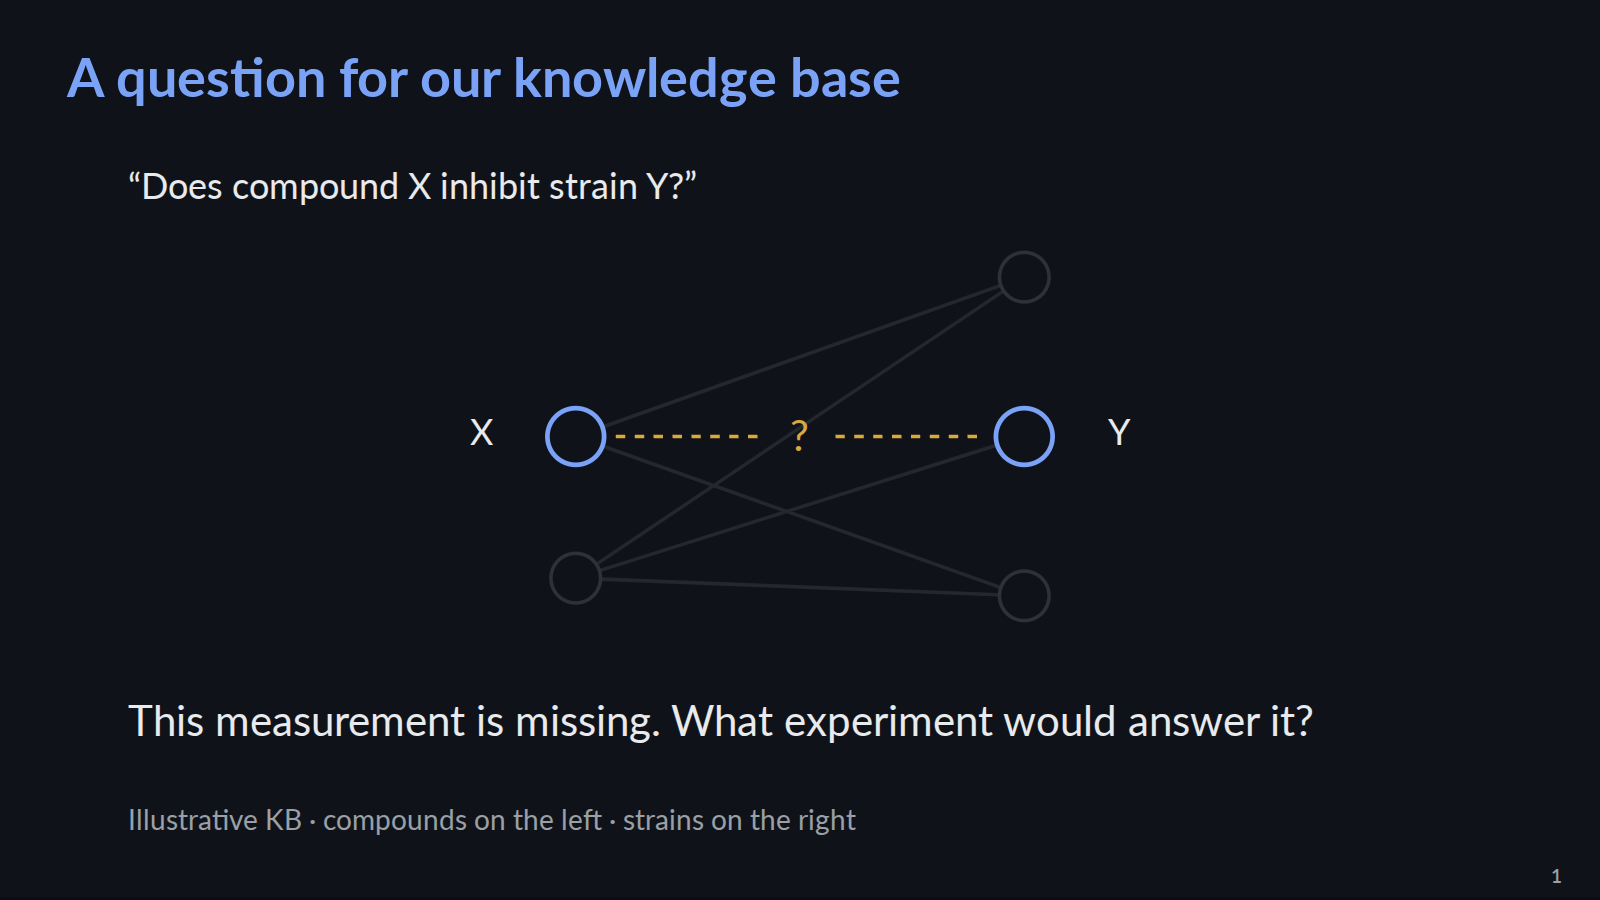
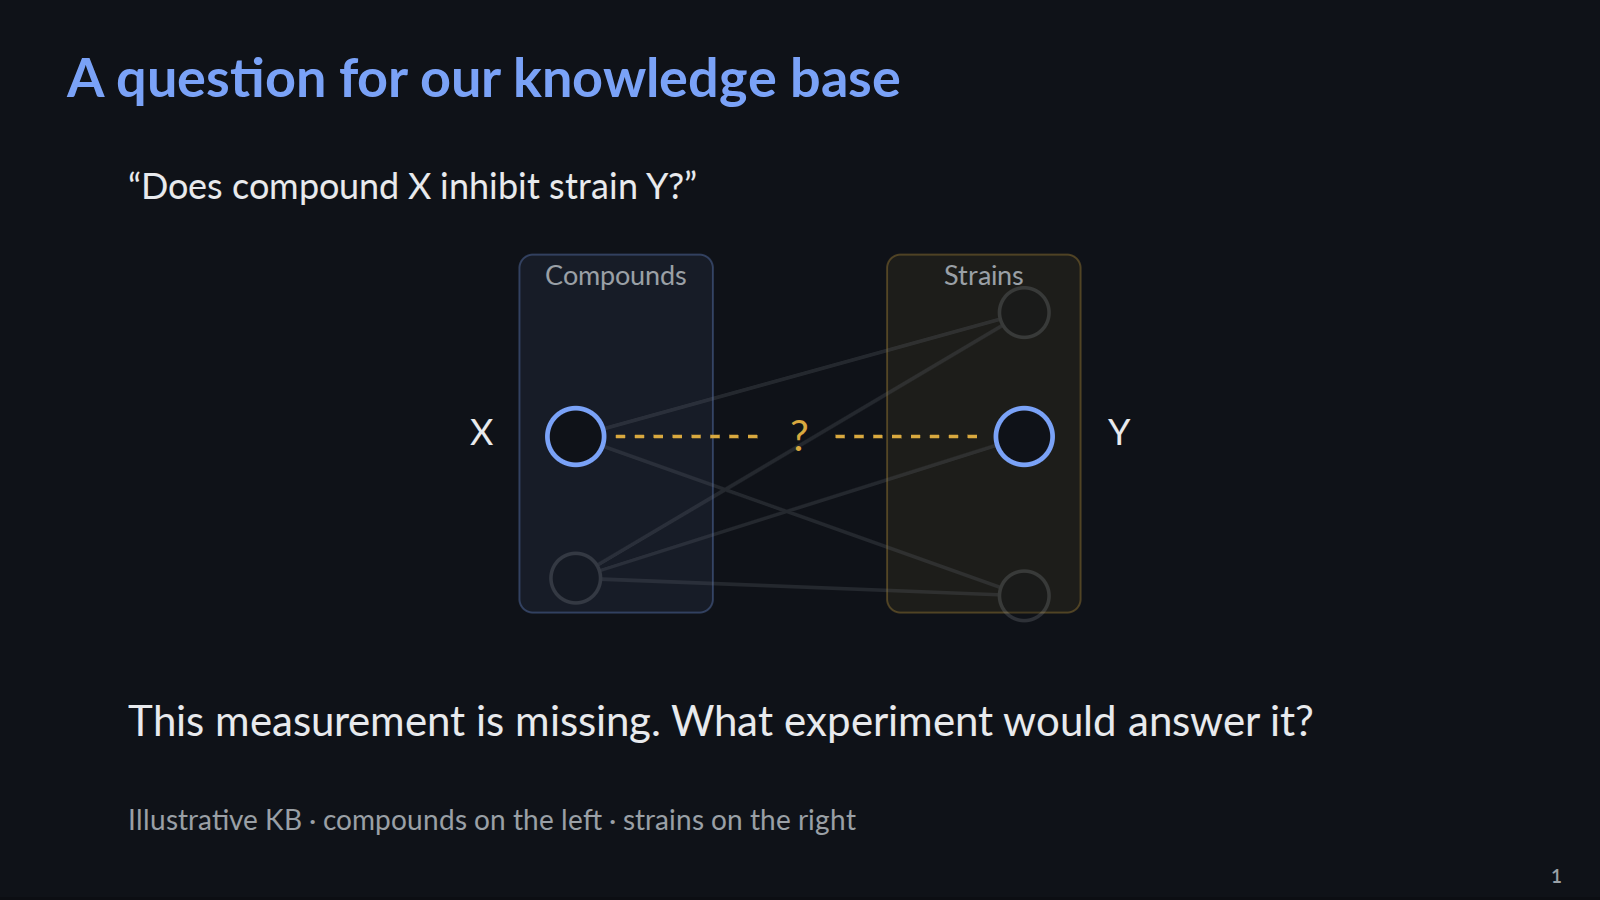
WIP: group compound and strain nodes in translucent labeled boxes

diff --git a/slides/talks/question-prototype/story.js b/slides/talks/question-prototype/story.js
@@ -2,8 +2,8 @@
 // TODO(final): conceptual illustration, not an actual graph export or recorded query.
 {
 Deck.slide('missing-link',{steps:5,notes:'Abstract bipartite knowledge base: two compound nodes on the left and three strain nodes on the right. All existing edges cross the partitions. Start unlabeled; reveal the researcher question; identify X and Y; zoom and dim surrounding knowledge; highlight the missing X–Y measurement. The demonstration assumes an up-to-date KB and researcher-supplied identities. This is not an actual query trace.',mount(frame,{css}){
-css(`.ml-question{position:absolute;left:8%;top:18%;font-size:var(--t-body);color:var(--fg);opacity:0;transition:opacity .35s}.ml-view{position:absolute;left:10%;top:27%;width:80%;height:43%;overflow:hidden}.ml-view svg{width:100%;height:100%}.ml-world{transform-origin:500px 200px;transition:transform .8s ease-in-out}.ml-zoom .ml-world{transform:scale(1.22)}.ml-context{transition:opacity .6s}.ml-zoom .ml-context{opacity:.22}.ml-edge{stroke:var(--detail);stroke-width:3;fill:none}.ml-dot{fill:var(--bg);stroke:var(--accent);stroke-width:3}.ml-context .ml-dot{transition:stroke .6s}.ml-zoom .ml-context .ml-dot{stroke:var(--muted)}.ml-focus{stroke-width:4}.ml-labels{opacity:0;transition:opacity .35s}.ml-label{fill:var(--fg);font-size:var(--t-small);font-family:Lato,sans-serif;text-anchor:middle;paint-order:stroke;stroke:var(--bg);stroke-width:8px;stroke-linejoin:round}.ml-gap{stroke:var(--plot-2);stroke-width:3;stroke-dasharray:8 8;fill:none}.ml-missing{opacity:0;transition:opacity .5s}.ml-has-question .ml-question,.ml-has-labels .ml-labels,.ml-reveal .ml-missing{opacity:1}.ml-mark{fill:var(--plot-2);font-size:var(--t-body);font-family:Lato,sans-serif;text-anchor:middle}.ml-answer{position:absolute;left:8%;top:77%;font-size:var(--t-lead);opacity:0;transition:opacity .5s}.ml-reveal .ml-answer{opacity:1}.ml-key{position:absolute;left:8%;top:89%;font-size:var(--t-caption);color:var(--muted)}.ml-jump .ml-world,.ml-jump .ml-context,.ml-jump .ml-dot,.ml-jump .ml-question,.ml-jump .ml-labels,.ml-jump .ml-missing,.ml-jump .ml-answer{transition:none}`);
-frame.innerHTML=`<h2 class="deck-heading">A question for our knowledge base</h2><div class="ml-question">“Does compound X inhibit strain Y?”</div><div class="ml-view"><svg viewBox="0 0 1000 400" preserveAspectRatio="xMidYMid meet" aria-label="Bipartite knowledge graph: two compounds on the left, three strains on the right."><g class="ml-world"><g class="ml-context"><path class="ml-edge" d="M310 200 L690 65 M310 200 L690 335 M310 320 L690 65 M310 320 L690 200 M310 320 L690 335"/><circle class="ml-dot" cx="310" cy="320" r="21"/><circle class="ml-dot" cx="690" cy="65" r="21"/><circle class="ml-dot" cx="690" cy="335" r="21"/></g><g class="ml-dot ml-focus"><circle cx="310" cy="200" r="24"/><circle cx="690" cy="200" r="24"/></g><g class="ml-labels"><text class="ml-label" x="230" y="207">X</text><text class="ml-label" x="770" y="207">Y</text></g><g class="ml-missing"><path class="ml-gap" d="M344 200 L470 200 M530 200 L656 200"/><text class="ml-mark" x="500" y="212">?</text></g></g></svg></div><div class="ml-answer">This measurement is missing. What experiment would answer it?</div><div class="ml-key">Illustrative KB · compounds on the left · strains on the right</div>`;
+css(`.ml-question{position:absolute;left:8%;top:18%;font-size:var(--t-body);color:var(--fg);opacity:0;transition:opacity .35s}.ml-view{position:absolute;left:10%;top:27%;width:80%;height:43%;overflow:hidden}.ml-view svg{width:100%;height:100%}.ml-world{transform-origin:500px 200px;transition:transform .8s ease-in-out}.ml-zoom .ml-world{transform:scale(1.22)}.ml-context{transition:opacity .6s}.ml-zoom .ml-context{opacity:.22}.ml-group{fill:var(--accent);fill-opacity:.07;stroke:var(--accent);stroke-opacity:.3;stroke-width:2}.ml-strains{fill:var(--plot-2);stroke:var(--plot-2)}.ml-group-label{fill:var(--muted);font-size:var(--t-caption);font-family:Lato,sans-serif;text-anchor:middle}.ml-edge{stroke:var(--detail);stroke-width:3;fill:none}.ml-dot{fill:var(--bg);stroke:var(--accent);stroke-width:3}.ml-context .ml-dot{transition:stroke .6s}.ml-zoom .ml-context .ml-dot{stroke:var(--muted)}.ml-focus{stroke-width:4}.ml-labels{opacity:0;transition:opacity .35s}.ml-label{fill:var(--fg);font-size:var(--t-small);font-family:Lato,sans-serif;text-anchor:middle;paint-order:stroke;stroke:var(--bg);stroke-width:8px;stroke-linejoin:round}.ml-gap{stroke:var(--plot-2);stroke-width:3;stroke-dasharray:8 8;fill:none}.ml-missing{opacity:0;transition:opacity .5s}.ml-has-question .ml-question,.ml-has-labels .ml-labels,.ml-reveal .ml-missing{opacity:1}.ml-mark{fill:var(--plot-2);font-size:var(--t-body);font-family:Lato,sans-serif;text-anchor:middle}.ml-answer{position:absolute;left:8%;top:77%;font-size:var(--t-lead);opacity:0;transition:opacity .5s}.ml-reveal .ml-answer{opacity:1}.ml-key{position:absolute;left:8%;top:89%;font-size:var(--t-caption);color:var(--muted)}.ml-jump .ml-world,.ml-jump .ml-context,.ml-jump .ml-dot,.ml-jump .ml-question,.ml-jump .ml-labels,.ml-jump .ml-missing,.ml-jump .ml-answer{transition:none}`);
+frame.innerHTML=`<h2 class="deck-heading">A question for our knowledge base</h2><div class="ml-question">“Does compound X inhibit strain Y?”</div><div class="ml-view"><svg viewBox="0 0 1000 400" preserveAspectRatio="xMidYMid meet" aria-label="Bipartite knowledge graph: two compounds on the left, three strains on the right."><rect class="ml-group" x="210" y="12" width="200" height="370" rx="14"/><rect class="ml-group ml-strains" x="590" y="12" width="200" height="370" rx="14"/><text class="ml-group-label" x="310" y="43">Compounds</text><text class="ml-group-label" x="690" y="43">Strains</text><g class="ml-world"><g class="ml-context"><path class="ml-edge" d="M310 200 L690 95 M310 200 L690 335 M310 320 L690 95 M310 320 L690 200 M310 320 L690 335"/><circle class="ml-dot" cx="310" cy="320" r="21"/><circle class="ml-dot" cx="690" cy="95" r="21"/><circle class="ml-dot" cx="690" cy="335" r="21"/></g><g class="ml-dot ml-focus"><circle cx="310" cy="200" r="24"/><circle cx="690" cy="200" r="24"/></g><g class="ml-labels"><text class="ml-label" x="230" y="207">X</text><text class="ml-label" x="770" y="207">Y</text></g><g class="ml-missing"><path class="ml-gap" d="M344 200 L470 200 M530 200 L656 200"/><text class="ml-mark" x="500" y="212">?</text></g></g></svg></div><div class="ml-answer">This measurement is missing. What experiment would answer it?</div><div class="ml-key">Illustrative KB · compounds on the left · strains on the right</div>`;
 return{enter:(s,a)=>{frame.classList.toggle('ml-jump',!a);frame.classList.toggle('ml-has-question',s>=2);frame.classList.toggle('ml-has-labels',s>=3);frame.classList.toggle('ml-zoom',s>=4);frame.classList.toggle('ml-reveal',s>=5);}};
 }});
 }
